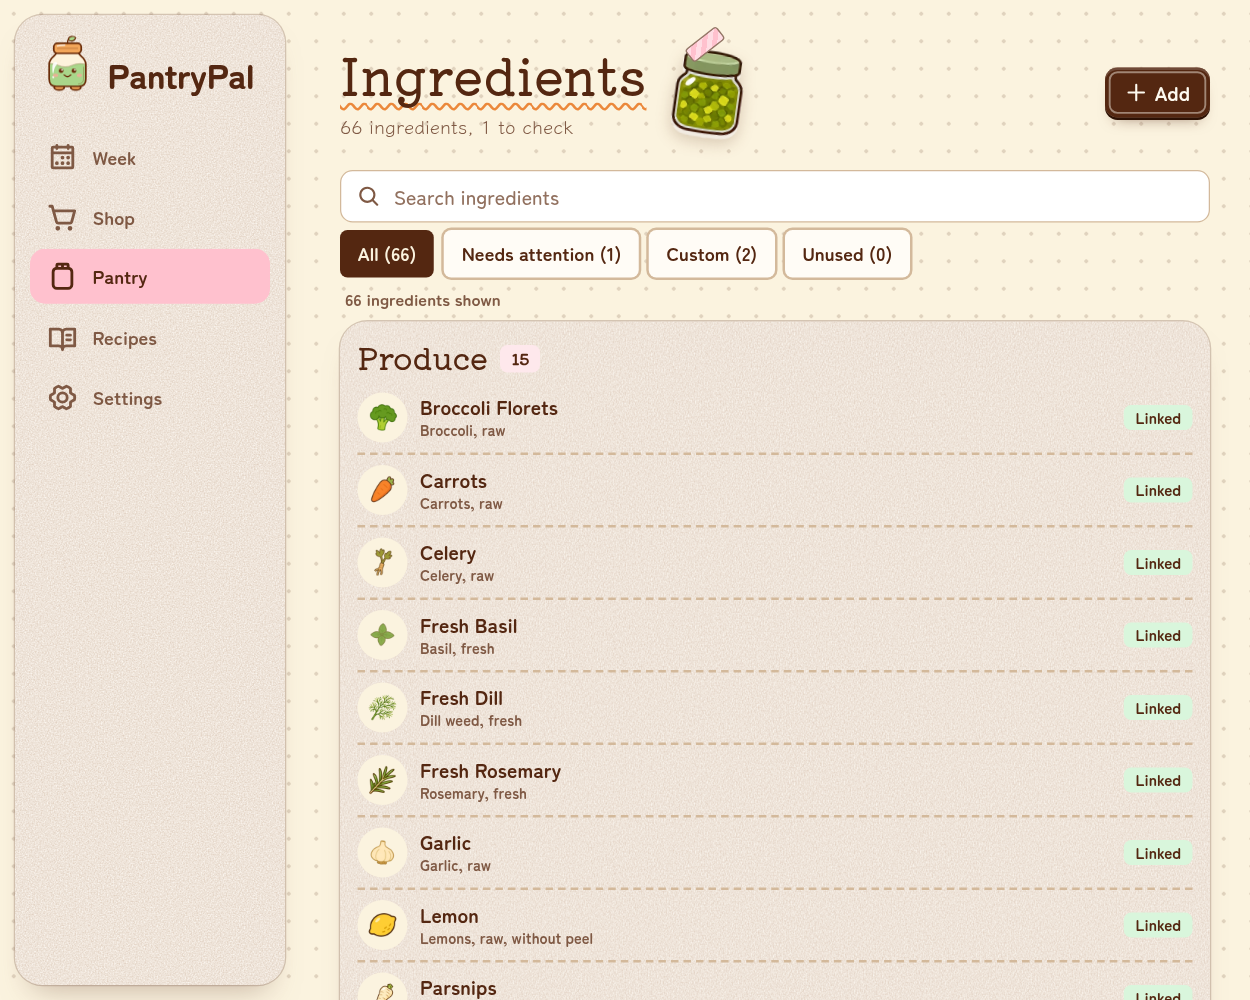
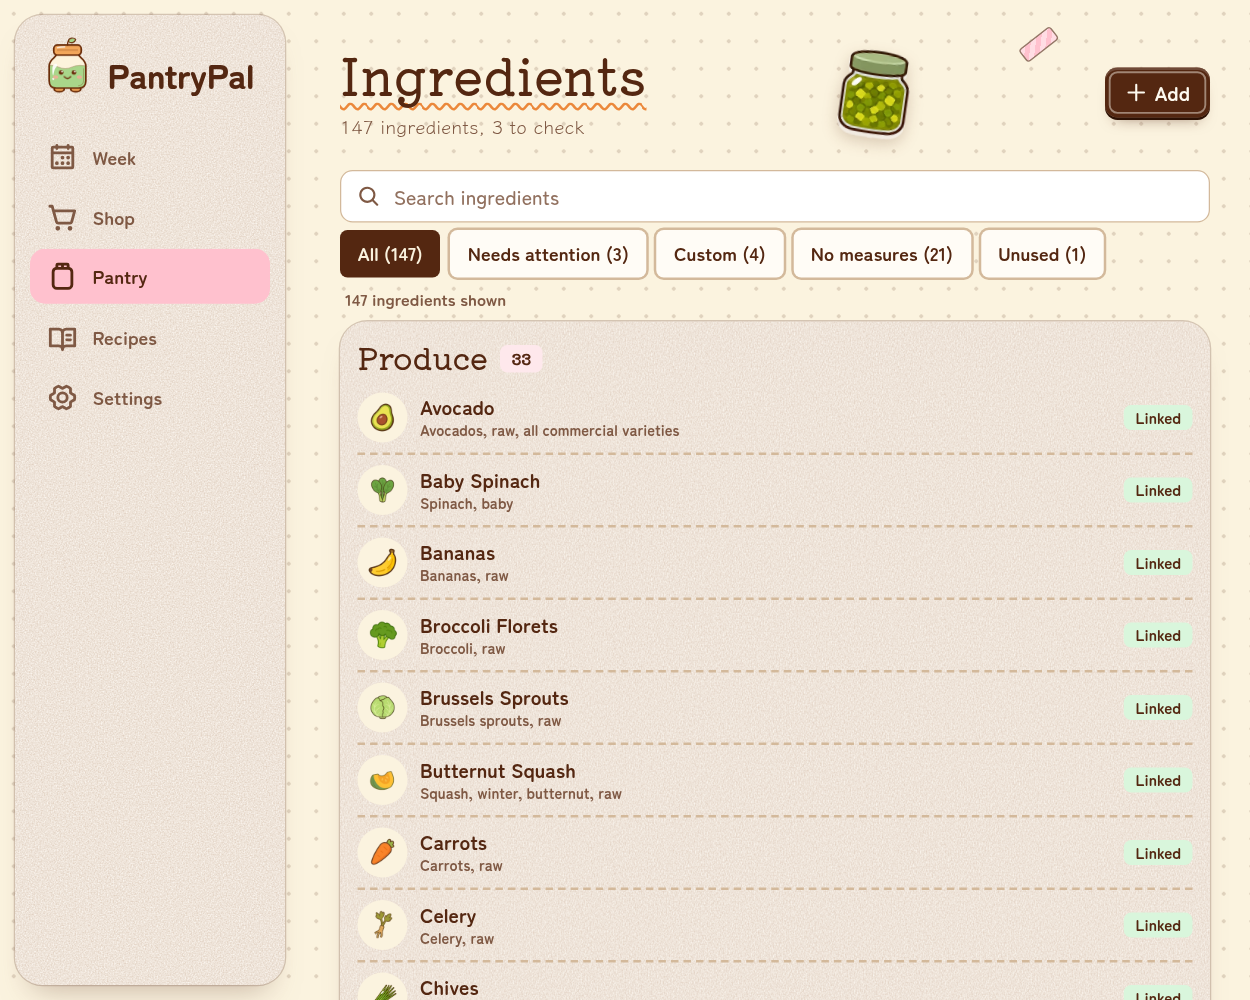
feat(web): No measures filter; I have it takes a unit and add/set mode
- Ingredients library: No measures chip and pill for ingredients with no USDA or own measure.
- Shopping item sheet: I have it records an amount in any convertible unit, as add or set; saves by ingredient id.
- Free-text items no longer offer I have it (the pantry only holds ingredients).
- Docs and library screenshot updated.

diff --git a/web/src/screens/shop/ItemSheet.tsx b/web/src/screens/shop/ItemSheet.tsx
@@ -1,14 +1,14 @@
 import { useState } from "react";
 import { Link } from "@tanstack/react-router";
 import { errorMessage } from "@/api";
-import { Button, Emoji, Icon, IconPicker, Sheet, buttonClass, ingredientEmoji, toast } from "@/ui";
+import { Button, Emoji, Icon, IconPicker, SegmentedControl, Sheet, buttonClass, ingredientEmoji, toast } from "@/ui";
 import type { ShoppingItem } from "./cart";
 import { UnitPicker } from "../ingredients/UnitPicker";
 import { UnitProblems } from "../ingredients/UnitProblems";
 import { unitProblems, unitText, type UnitProblem } from "../ingredients/units";
 import { parseQty, qtyToInput, unitLabel } from "./format";
 import styles from "./Shop.module.css";
-import { useRemoveItem, useUpdateItemQty } from "./queries";
+import { useRemoveItem, useUpdateItemQty, type PantryMode } from "./queries";
 
 export interface ItemSheetProps {
   listId: string;
@@ -81,6 +81,8 @@ function ItemDetail({ listId, item, onClose }: { listId: string; item: ShoppingI
   const [issues, setIssues] = useState<UnitProblem[]>([]);
   // Set once "I have it" is tapped: the amount to add to the pantry, which can differ from the list.
   const [pantryText, setPantryText] = useState<string | null>(null);
+  const [pantryUnit, setPantryUnit] = useState(item.unit === null || item.unit === "count" ? "" : unitText(item.unit));
+  const [pantryMode, setPantryMode] = useState<PantryMode>("add");
   const update = useUpdateItemQty(listId);
   const remove = useRemoveItem(listId);
   const qty = parseOptionalQty(text);
@@ -166,7 +168,7 @@ function ItemDetail({ listId, item, onClose }: { listId: string; item: ShoppingI
           </Button>
         </span>
       </div>
-      {item.ingredientId !== null && (
+      {item.ingredientId !== null && pantryText === null && (
         <>
           <UnitPicker
             label="Unit"
@@ -190,13 +192,15 @@ function ItemDetail({ listId, item, onClose }: { listId: string; item: ShoppingI
       )}
       {pantryText === null ? (
         <div className={styles.sheetActions}>
-          <Button
-            icon={<Icon name="pantry" />}
-            disabled={remove.isPending}
-            onClick={() => setPantryText(item.qty === null ? "" : qtyToInput(item.qty))}
-          >
-            I have it
-          </Button>
+          {item.ingredientId !== null && (
+            <Button
+              icon={<Icon name="pantry" />}
+              disabled={remove.isPending}
+              onClick={() => setPantryText(item.qty === null ? "" : qtyToInput(item.qty))}
+            >
+              I have it
+            </Button>
+          )}
           <Button
             variant="dangerGhost"
             icon={<Icon name="trash" />}
@@ -208,7 +212,18 @@ function ItemDetail({ listId, item, onClose }: { listId: string; item: ShoppingI
         </div>
       ) : (
         <div className={styles.addField}>
-          <label htmlFor="shop-item-pantry-qty">How much goes into the pantry?</label>
+          <SegmentedControl<PantryMode>
+            label="Record it as"
+            value={pantryMode}
+            onChange={(next) => setPantryMode(next)}
+            options={[
+              { value: "add", label: "Add to pantry" },
+              { value: "set", label: "Set what I have" },
+            ]}
+          />
+          <label htmlFor="shop-item-pantry-qty">
+            {pantryMode === "add" ? "How much goes into the pantry?" : "How much do you have now?"}
+          </label>
           <span className={styles.qtyEdit}>
             <input
               id="shop-item-pantry-qty"
@@ -222,15 +237,52 @@ function ItemDetail({ listId, item, onClose }: { listId: string; item: ShoppingI
               onChange={(e) => setPantryText(e.target.value)}
               onFocus={(e) => e.currentTarget.select()}
             />
-            {pantryQty != null && <span className={styles.qtyUnit}>{unitLabel(item.unit, pantryQty)}</span>}
+            {item.ingredientId === null && pantryQty != null && (
+              <span className={styles.qtyUnit}>{unitLabel(item.unit, pantryQty)}</span>
+            )}
           </span>
+          {item.ingredientId !== null && (
+            <>
+              <UnitPicker
+                label="Unit"
+                ingredientId={item.ingredientId}
+                value={pantryUnit}
+                invalid={issues.length > 0}
+                onChange={(next) => {
+                  setPantryUnit(next);
+                  setIssues([]);
+                }}
+              />
+              <UnitProblems
+                problems={issues}
+                onUseUnit={(next) => {
+                  setPantryUnit(next);
+                  setIssues([]);
+                }}
+                onMeasureAdded={() => setIssues([])}
+              />
+            </>
+          )}
           <Button
             variant="primary"
             loading={remove.isPending}
             disabled={pantryQty === undefined}
-            onClick={() => run(remove.mutateAsync({ item, pantry: { qty: pantryQty! } }), `${item.name} added to your pantry`)}
+            onClick={() => {
+              setIssues([]);
+              void run(
+                remove.mutateAsync({
+                  item,
+                  pantry: {
+                    qty: pantryQty!,
+                    mode: pantryMode,
+                    ...(item.ingredientId !== null ? { unit: pantryUnit.trim() === "" ? null : pantryUnit.trim() } : {}),
+                  },
+                }),
+                `${item.name} ${pantryMode === "add" ? "added to" : "set in"} your pantry`,
+              );
+            }}
           >
-            Add to pantry and remove
+            {pantryMode === "add" ? "Add to pantry and remove" : "Set in pantry and remove"}
           </Button>
           <Button variant="ghost" disabled={remove.isPending} onClick={() => setPantryText(null)}>
             Back

diff --git a/web/src/screens/ingredients/library.test.ts b/web/src/screens/ingredients/library.test.ts
@@ -2,42 +2,51 @@ import { describe, expect, it } from "vitest";
 import { buildRows, countFilters, filterRows, groupByAisle, parseFilter } from "./library";
 import type { IngredientView } from "./queries";
 
-function ingredient(id: string, name: string, category: IngredientView["category"], fdcId: number | null, aliases: string[] = []): IngredientView {
+function ingredient(
+  id: string,
+  name: string,
+  category: IngredientView["category"],
+  fdcId: number | null,
+  aliases: string[] = [],
+  measures: string[] = ["cup"],
+): IngredientView {
   return {
     id,
     name,
     category,
     aliases: aliases.map((alias, index) => ({ id: `${id}-${index}`, alias, createdAt: "" })),
+    measures: measures.map((unit) => ({ unit, grams: 30, source: "usda", estimated: false, usdaGrams: 30, label: null, note: null })),
     nutrition: fdcId === null ? null : { source: "manual", fdcId, description: `Food ${fdcId}`, per100g: null, portions: [] },
   } as unknown as IngredientView;
 }
 
 const ITEMS = [
-  ingredient("a", "Birria Paste", "condiment", null),
+  ingredient("a", "Birria Paste", "condiment", null, [], []),
   ingredient("b", "Egg", "protein", 1, ["eggs"]),
   ingredient("c", "Milk", "dairy", 2),
-  ingredient("d", "Butter", "dairy", 3),
+  ingredient("d", "Butter", "dairy", 3, [], []),
 ];
 
 const rows = buildRows(ITEMS, new Set(["a"]), new Set(["b", "c"]));
 
 describe("ingredient library", () => {
-  it("derives linked, attention and unused per ingredient", () => {
-    expect(rows.map((row) => [row.ingredient.id, row.linked, row.attention, row.unused])).toEqual([
-      ["a", false, true, true],
-      ["b", true, false, false],
-      ["c", true, false, false],
-      ["d", true, false, true],
+  it("derives linked, attention, measures and unused per ingredient", () => {
+    expect(rows.map((row) => [row.ingredient.id, row.linked, row.attention, row.noMeasures, row.unused])).toEqual([
+      ["a", false, true, true, true],
+      ["b", true, false, false, false],
+      ["c", true, false, false, false],
+      ["d", true, false, true, true],
     ]);
   });
 
   it("counts every chip", () => {
-    expect(countFilters(rows)).toEqual({ all: 4, attention: 1, custom: 1, unused: 2 });
+    expect(countFilters(rows)).toEqual({ all: 4, attention: 1, custom: 1, measures: 2, unused: 2 });
   });
 
   it("filters by chip and by name or alias", () => {
     expect(filterRows(rows, "attention", "").map((row) => row.ingredient.name)).toEqual(["Birria Paste"]);
     expect(filterRows(rows, "custom", "").map((row) => row.ingredient.name)).toEqual(["Birria Paste"]);
+    expect(filterRows(rows, "measures", "").map((row) => row.ingredient.name)).toEqual(["Birria Paste", "Butter"]);
     expect(filterRows(rows, "unused", "").map((row) => row.ingredient.name)).toEqual(["Birria Paste", "Butter"]);
     expect(filterRows(rows, "all", "EGGS").map((row) => row.ingredient.name)).toEqual(["Egg"]);
     expect(filterRows(rows, "unused", "milk")).toEqual([]);

diff --git a/web/src/screens/ingredients/IngredientsScreen.tsx b/web/src/screens/ingredients/IngredientsScreen.tsx
@@ -4,7 +4,7 @@ import { Button, Card, EmptyState, ErrorState, Icon, PageHeader, Pill, SearchInp
 import { aisleLabel } from "../aisles";
 import { IngredientPicker } from "./IngredientPicker";
 import styles from "./Ingredients.module.css";
-import { buildRows, countFilters, filterRows, groupByAisle, type LibraryFilter, type LibraryRow } from "./library";
+import { buildRows, countFilters, filterRows, groupByAisle, LIBRARY_FILTERS, type LibraryFilter, type LibraryRow } from "./library";
 import { useIngredientLibrary, useReviewList, useUsageCounts } from "./queries";
 import { usePageEntry } from "./usePageEntry";
 
@@ -12,12 +12,14 @@ const FILTER_LABELS: Record<LibraryFilter, string> = {
   all: "All",
   attention: "Needs attention",
   custom: "Custom",
+  measures: "No measures",
   unused: "Unused",
 };
 
 const EMPTY_FILTER: Record<Exclude<LibraryFilter, "all">, { title: string; text: string }> = {
   attention: { title: "Nothing needs attention", text: "Every ingredient has a USDA food or a custom entry you accepted." },
   custom: { title: "No custom ingredients", text: "Every ingredient is linked to a USDA food." },
+  measures: { title: "Every ingredient has a measure", text: "Cups, spoons and counts can convert to grams for each one." },
   unused: { title: "Every ingredient is in use", text: "Each one is in a recipe, the pantry, a shopping list or a dietary rule." },
 };
 
@@ -82,7 +84,7 @@ export function IngredientsScreen({ filter, onFilter }: IngredientsScreenProps) 
   const counts = countFilters(rows);
   const shown = filterRows(rows, filter, query);
   const groups = groupByAisle(shown);
-  const options: Array<SegmentOption<LibraryFilter>> = (["all", "attention", "custom", "unused"] as const).map((value) => ({
+  const options: Array<SegmentOption<LibraryFilter>> = LIBRARY_FILTERS.map((value) => ({
     value,
     label: `${FILTER_LABELS[value]} (${counts[value]})`,
   }));
@@ -162,7 +164,7 @@ export function IngredientsScreen({ filter, onFilter }: IngredientsScreenProps) 
 }
 
 function IngredientRow({ row }: { row: LibraryRow }) {
-  const { ingredient, linked, attention, unused } = row;
+  const { ingredient, linked, attention, noMeasures, unused } = row;
   return (
     <li>
       <Link to="/ingredients/$id" params={{ id: ingredient.id }} className={styles.row}>
@@ -174,6 +176,7 @@ function IngredientRow({ row }: { row: LibraryRow }) {
         <span className={styles.badges}>
           {attention && <Pill tone="gum">Needs attention</Pill>}
           <Pill tone={linked ? "pistachio" : "peach"}>{linked ? "Linked" : "Custom"}</Pill>
+          {noMeasures && <Pill tone="butter">No measures</Pill>}
           {unused && <Pill>Unused</Pill>}
         </span>
       </Link>

diff --git a/web/src/screens/shop/queries.ts b/web/src/screens/shop/queries.ts
@@ -105,20 +105,32 @@ export function useUpdateItemQty(listId: string) {
   });
 }
 
+/** How "I have it" records stock: add to what the pantry holds, or set the total on hand. */
+export type PantryMode = "add" | "set";
+
 /** Take an item off the list. With `pantry`, first record it as stock: that amount, or "on hand" when null. */
 export function useRemoveItem(listId: string) {
   const qc = useQueryClient();
   return useMutation({
-    mutationFn: async ({ item, pantry }: { item: ShoppingItem; pantry?: { qty: number | null } }) => {
+    mutationFn: async ({
+      item,
+      pantry,
+    }: {
+      item: ShoppingItem;
+      pantry?: { qty: number | null; unit?: string | null; mode?: PantryMode };
+    }) => {
       if (pantry) {
+        const ref =
+          item.ingredientId !== null
+            ? { ingredientId: item.ingredientId }
+            : { ingredient: item.name, category: item.category };
+        const unit = pantry.unit === undefined ? item.unit : pantry.unit;
         await unwrap(
-          pantry.qty !== null
-            ? client.POST("/pantry/adjust", {
-                body: { ingredient: item.name, category: item.category, delta: pantry.qty, unit: item.unit },
-              })
-            : client.POST("/pantry/set", {
-                body: { ingredient: item.name, category: item.category, qty: null, status: "on_hand" },
-              }),
+          pantry.qty === null
+            ? client.POST("/pantry/set", { body: { ...ref, qty: null, status: "on_hand" } })
+            : pantry.mode === "set"
+              ? client.POST("/pantry/set", { body: { ...ref, qty: pantry.qty, unit } })
+              : client.POST("/pantry/adjust", { body: { ...ref, delta: pantry.qty, unit } }),
         );
       }
       await unwrap(client.DELETE("/shopping-lists/{id}/items/{itemId}", { params: { path: { id: listId, itemId: item.id } } }));

diff --git a/web/src/screens/ingredients/library.ts b/web/src/screens/ingredients/library.ts
@@ -3,7 +3,7 @@
 import { CATEGORY_ORDER } from "../aisles";
 import type { IngredientView } from "./queries";
 
-export const LIBRARY_FILTERS = ["all", "attention", "custom", "unused"] as const;
+export const LIBRARY_FILTERS = ["all", "attention", "custom", "measures", "unused"] as const;
 export type LibraryFilter = (typeof LIBRARY_FILTERS)[number];
 
 /** One ingredient with what the chips need to know about it. */
@@ -12,6 +12,8 @@ export interface LibraryRow {
   /** Linked to a USDA food. A custom ingredient is not. */
   linked: boolean;
   attention: boolean;
+  /** No measure at all: no USDA serving size and none of your own. Cups, spoons and counts cannot convert to grams. */
+  noMeasures: boolean;
   /** In no recipe, pantry row, open shopping list or rule. */
   unused: boolean;
 }
@@ -25,6 +27,7 @@ export function buildRows(
     ingredient,
     linked: ingredient.nutrition?.fdcId != null,
     attention: attentionIds.has(ingredient.id),
+    noMeasures: ingredient.measures.length === 0,
     unused: !usedIds.has(ingredient.id),
   }));
 }
@@ -33,6 +36,7 @@ const MATCHES: Record<LibraryFilter, (row: LibraryRow) => boolean> = {
   all: () => true,
   attention: (row) => row.attention,
   custom: (row) => !row.linked,
+  measures: (row) => row.noMeasures,
   unused: (row) => row.unused,
 };
 
@@ -41,6 +45,7 @@ export function countFilters(rows: readonly LibraryRow[]): Record<LibraryFilter,
     all: rows.length,
     attention: rows.filter(MATCHES.attention).length,
     custom: rows.filter(MATCHES.custom).length,
+    measures: rows.filter(MATCHES.measures).length,
     unused: rows.filter(MATCHES.unused).length,
   };
 }

diff --git a/docs/use/shopping.md b/docs/use/shopping.md
@@ -58,9 +58,16 @@ says **Added by hand**. In the sheet you can:
 - Change **Quantity to buy** and, for an item with an ingredient, its **Unit**.
   Tap **Save**. Choose a unit of that ingredient, or add a measure for a new unit.
   A free-text item has no **Unit** list. See [Units and measures](units.md).
-- Tap **I have it**. Confirm **How much goes into the
-  pantry?** (it starts at the list amount; clear it to mark the item on hand),
-  then tap **Add to pantry and remove**.
+- Tap **I have it** to record what you have, then remove the item. A free-text
+  item has no **I have it**, because the pantry only holds ingredients. Choose how:
+  - **Add to pantry** adds the amount to what the pantry holds.
+  - **Set what I have** sets the pantry to exactly that amount.
+
+  The amount starts at the list amount. Clear it to mark the item on hand with
+  no amount. For an item with an ingredient, pick the **Unit** too. Any unit
+  that converts works, so 2 cups of Baby Spinach is stored in the stock unit.
+  A unit with no weight shows **Add a measure for** it. Tap **Add to pantry and
+  remove** or **Set in pantry and remove**.
 - Tap **Remove** to take the item off without a pantry change.
 
 Tap **Add item** above the aisles, type a name, and tap **Add**. The app matches

diff --git a/docs/use/ingredients.md b/docs/use/ingredients.md
@@ -29,8 +29,8 @@ it.
 ![Ingredients page with search, filter chips, and ingredients grouped by aisle](../images/ingredients-library.png)
 
 Each row shows the icon, the name, and the linked USDA food. Pills show the
-state: **Linked** or **Custom**, **Needs attention**, and **Unused**. Tap a row
-to open the ingredient page.
+state: **Linked** or **Custom**, **Needs attention**, **No measures**, and
+**Unused**. Tap a row to open the ingredient page.
 
 Use **Search ingredients** to filter by name or other name. The chips filter the
 list. Each chip shows its count.
@@ -40,6 +40,7 @@ list. Each chip shows its count.
 | **All** | Every ingredient that is not archived. |
 | **Needs attention** | Ingredients that need a look. See [Needs attention](#needs-attention). |
 | **Custom** | Ingredients with no USDA food. |
+| **No measures** | Ingredients with no [measure](units.md) at all: no USDA serving size and none of your own. Cups, spoons, and counts cannot turn into grams for them. Add a measure on the ingredient page. |
 | **Unused** | Ingredients that no recipe, pantry row, open shopping list, or dietary rule uses. |
 
 The chip is part of the address, for example `/ingredients?filter=attention`.
